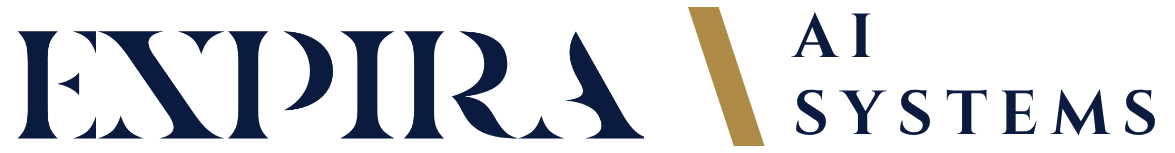
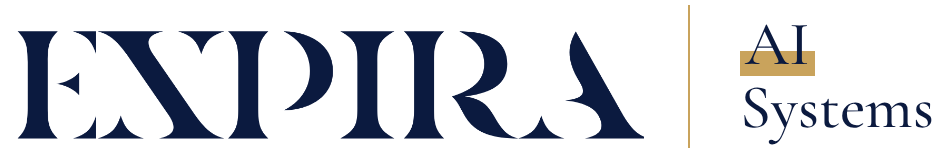
Revert EXPIRA descriptor to thin Cormorant styling
Restores the v4 descriptor: tracked Cormorant Garamond "AI SYSTEMS"
and the two-line "AI / Systems" with gold highlight bar, replacing the
Cinzel shard version. Assets stay transparent; manifest hashes updated.

Claude-Session: https://claude.ai/code/session_01MrCZqf7DiCLiZiPVxqktQd

Changed region(s): [[0.0, 0.0261, 1.0, 0.9673], [0.7729, 0.1569, 0.8966, 0.4967], [0.8038, 0.915, 0.8348, 0.9412]]

diff --git a/expira-system/source/build_assets.js b/expira-system/source/build_assets.js
@@ -4,8 +4,8 @@ const mk=(W)=>`<img src="arch_mark.svg" width="${W}" style="display:block">`;
 // shard: gold parallelogram at the mark's crack angle
 const shard=(h)=>`<svg width="${(h*0.55).toFixed(1)}" height="${h}" viewBox="0 0 55 100" style="display:block"><polygon points="0,0 22,0 55,100 33,100" fill="${GOLD}"/></svg>`;
 const line=(s,ls=.32)=>`<div style="font:700 ${s}px/1 'Cinzel';letter-spacing:${ls}em;margin-right:-${ls}em;color:${INK}">AI SYSTEMS</div>`;
-const desc1=(s)=>`<div style="display:flex;align-items:center;gap:${s*.6}px">${shard(s*1.25)}${line(s)}${'<div style="transform:scaleX(-1)">'+shard(s*1.25)+'</div>'}</div>`;
-const desc2=(s)=>`<div style="display:flex;align-items:stretch;gap:${s*.45}px">${shard(s*2.25)}<div style="display:flex;flex-direction:column;justify-content:space-between;font:700 ${s}px/1 'Cinzel';color:${INK};letter-spacing:.2em"><div>AI</div><div>SYSTEMS</div></div></div>`;
+const desc1=(s)=>`<div style="font:500 ${s}px 'Cormorant Garamond';letter-spacing:.55em;margin-right:-.55em;color:#6B6A66">AI SYSTEMS</div>`;
+const desc2=(s)=>`<div style="display:flex;align-items:center;gap:${s*.8}px"><div style="width:2px;height:${s*2.3}px;background:#C9A35C"></div><div style="font:500 ${s}px/1.02 'Cormorant Garamond';color:${INK}"><span style="background:linear-gradient(transparent 58%,#C9A35C 58%,#C9A35C 92%,transparent 92%);padding:0 .08em">AI</span><br>Systems</div></div>`;
 const col=(...x)=>`<div style="display:flex;flex-direction:column;align-items:center">${x.join('')}</div>`;
 const row=(g,...x)=>`<div style="display:flex;align-items:center;gap:${g}px">${x.join('')}</div>`;
 const gap=h=>`<div style="height:${h}px"></div>`;
@@ -17,10 +17,10 @@ const A={
  signature:row(44,wm(640),desc2(62)),
  watermark:col(mk(1100),gap(120),wm(1100)),
  // extended lockups
- primary_stacked_full:col(mk(1000),gap(110),wm(1040),gap(80),desc1(62)),
+ primary_stacked_full:col(mk(1000),gap(110),wm(1040),gap(80),desc1(48)),
  horizontal_full:row(56,mk(620),wm(680),desc2(70)),
  stacked:col(mk(1000),gap(120),wm(1040)),
 };
-let h='<!doctype html><html><head><meta charset=utf-8><link href="c.css" rel=stylesheet><style>body{margin:0;background:transparent}.a{display:inline-block;padding:4px;margin:40px}</style></head><body>';
+let h='<!doctype html><html><head><meta charset=utf-8><link href="g.css" rel=stylesheet><style>body{margin:0;background:transparent}.a{display:inline-block;padding:4px;margin:40px}</style></head><body>';
 for(const k in A)h+=`<div class=a id="${k}">${A[k]}</div><br>`;
 fs.writeFileSync('assets.html',h+'</body></html>');fs.writeFileSync('aids.json',JSON.stringify(Object.keys(A)));

diff --git a/expira-system/README.md b/expira-system/README.md
@@ -30,6 +30,6 @@ with descriptor, horizontal with descriptor, wordmark with descriptor.
   clean fracture. Vector source: `source/EXPIRA_mark.svg`.
 - Wordmark: the native EXPIRA stencil serif from the Canva logo pack
   (`EXPIRA_Native_Logo-Pack`).
-- Descriptor: "AI SYSTEMS" in Cinzel 700, set beside a gold shard cut at
-  the same angle as the fracture in the mark.
+- Descriptor: Cormorant Garamond 500. Tracked caps "AI SYSTEMS" under the
+  gold rule in the horizontal and signature lockups.
 - Colors: ink `#0B1A3F`, slate `#2C3549`, deep `#09101E`, gold `#AE8A47`.
